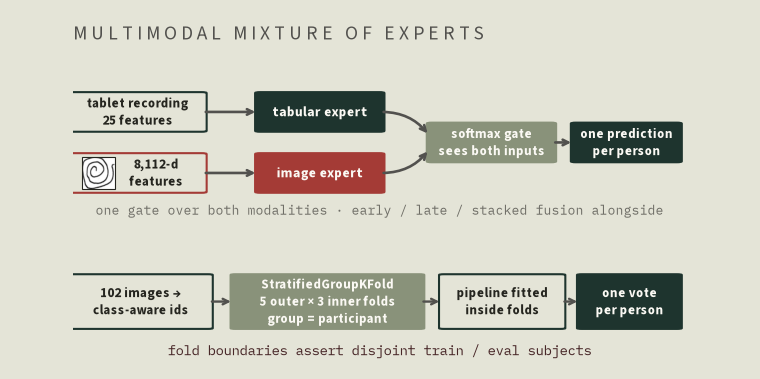
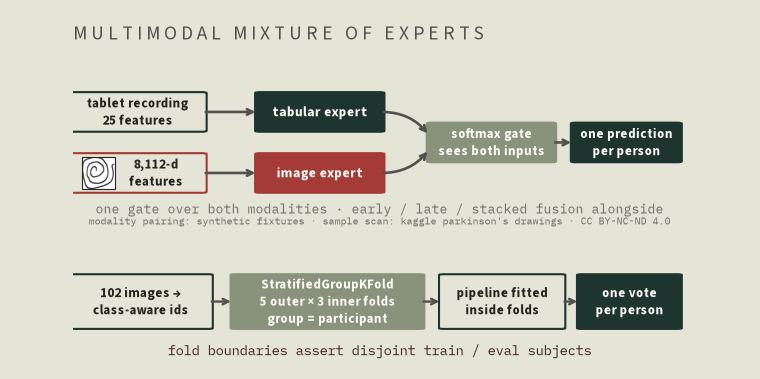
pd-drawings: audit fixes — receipts link, honest title, recruiter-clarity glosses
- title: "multimodal MoE" → "mixture-of-experts (two-modality version
  tested on simulated paired data only)"; the body's own scope statement
  disclaims real multimodal fusion
- link: committed result summaries (the receipts) in the repo
- preview asset regenerated with in-image attribution + synthetic-only
  note for the NC-ND sample scan; alt text updated to match
- every cited artifact path now points at results/summaries/*
- clarity pass: glosses for multimodal fusion, HC, z channel, CI, seeds,
  PCA/variance filter, ablation, pooled logreg; protocol paragraph
  split into readable sentences; chapter date labels replaced with
  descriptive labels (dates were non-monotonic)

Changed region(s): [[0.1211, 0.5224, 0.8776, 0.6095]]

diff --git a/projects.js b/projects.js
@@ -71,60 +71,61 @@ window.portfolioProjects = [
     result: "The learnable object the evidence supports is a small causal policy — trend strength, volatility, revision churn, lagged performance deciding naive vs theta — whose downside is bounded by naive (it can always defer to naive — inferred from the rule, not yet measured on a calm gate), and whose upside is the volatile phases, where theta halved naive's error on 2021 targets (7.9% vs 16.8%). The general lesson is the industry-relevant one: 'my model won' always deserves the follow-up question — won under what data conditions? The most valuable artifact in the project isn't any model; it's the vintage harness that would have caught the v1 result on day one."
   },
   {
-    id: "pd-drawings", title: "Classifying Parkinson's from drawings — subject-safe evaluation of a multimodal MoE", subtitle: "Rebuilding a drawing classifier around the unit that was quietly leaking: the participant.",
+    id: "pd-drawings", title: "Classifying Parkinson's from drawings — subject-safe evaluation of a mixture-of-experts (its two-modality version tested on simulated paired data only)", subtitle: "Rebuilding a drawing classifier around the unit that was quietly leaking: the participant.",
     roles: ["data", "ml"], roleLabels: ["DATA SCIENCE", "MACHINE LEARNING", "MLOPS"],
     links: [
       { label: "github repository", href: "https://github.com/oleeveeuh/parkinsons-drawing-analysis" },
       { label: "data audit (verified inventory)", href: "https://github.com/oleeveeuh/parkinsons-drawing-analysis/blob/main/docs/data_audit.md" },
+      { label: "committed result summaries (the receipts)", href: "https://github.com/oleeveeuh/parkinsons-drawing-analysis/tree/main/results/summaries" },
     ],
     previewImage: "assets/pd-drawings-method-schematic.png",
-    previewAlt: "schematic of the multimodal mixture of experts: tablet recordings feeding a tabular expert and an actual participant spiral drawing (contrast-adjusted scan) feeding an image expert, both combined by a softmax gate over the concatenated features into one prediction per participant, above a subject-safe protocol band running class-aware subject ids, participant-grouped stratified k-fold, fold-local pipeline fitting, and one vote per person",
+    previewAlt: "method schematic of a mixture-of-experts model: tablet recordings feed a tabular expert, a kaggle spiral scan feeds an image expert, and a learned gate combines them into one prediction per person, above a subject-safe protocol band (class-aware participant ids, participant-grouped splits, fold-local fitting, one vote per person). the two-modality layout is exercised on synthetic paired fixtures — the two real datasets here have different participants and cannot be fused. sample scan: kaggle parkinson's drawings (kmader), CC BY-NC-ND 4.0",
     technologyGroups: [
       { label: "DATA SCIENCE", skills: ["Python", "NumPy", "pandas", "SciPy", "Matplotlib", "UCI & Kaggle dataset audit", "subject-level bootstrap", "sign-flip permutation tests"] },
       { label: "MACHINE LEARNING", skills: ["scikit-learn", "StratifiedGroupKFold nested CV", "class-weighted logistic regression", "decision tree baseline", "XGBoost (wired, unrun)", "HOG + shape descriptors (scikit-image)", "frozen ResNet-18 features (torchvision, evaluated)", "early/late/stacked fusion (evaluated)", "softmax-gated MoE (evaluated)", "synthetic paired-modality fixtures"] },
-      { label: "MLOPS", skills: ["GitHub Actions CI", "pytest leakage guards", "hashed feature caches", "seed-fixed reproducibility", "JSON result artifacts"] },
+      { label: "MLOPS", skills: ["GitHub Actions CI", "pytest leakage guards", "hashed CNN-feature cache (optional path)", "seed-fixed reproducibility", "JSON artifacts + committed result summaries"] },
     ],
     year: "FIELD NOTE · 2026",
-    summary: "A rebuild of a Parkinson's drawing classifier whose evaluation had quietly leaked — 102 'samples' were 28 people, and every supplied test drawing belonged to a person in training. The fix is the finding: participant-grouped nested CV, a measured account of what the leak cost, and honest nulls for deep features, fusion, and mixture-of-experts.",
+    summary: "A rebuild of a Parkinson's drawing classifier whose evaluation had quietly leaked — 102 'samples' were 28 people, and every supplied test drawing belonged to a person in training. The fix is the finding: participant-grouped cross-validation (splits that never let one person's drawings span training and test), a measured account of what the leak cost, and honest nulls for deep features, fusion, and mixture-of-experts.",
     story: [
       { k: "the question · where this started", t: "can a classifier recognise parkinson's disease from the way a person draws?" },
       { p: "Two public datasets — Kaggle spiral/wave images and UCI tablet recordings — made the question look answerable, and my first pipeline answered it with confidence. The answer didn't survive contact with the filenames: the Kaggle set advertises 102 samples per task, but the filenames encode only 28 people per task, and every drawing in the supplied test set belongs to a person who is also in the supplied training set. Three correlated drawings of one person are not three independent patients — so before any model could be believed, the evaluation itself had to be rebuilt." },
-      { p: "The inventory, stated the way a data scientist would want it up front. The Kaggle set (CC BY-NC-ND 4.0) contributes 102 drawings per task — spiral and wave, 51/51 by dataset label, normalised to 128×128 grayscale — and the UCI set (CC BY 4.0, Isenkul, Sakar & Kursun 2014) contributes 40 tablet recordings, 25 PD / 15 HC, each file thousands of X/Y/Z/pressure/grip-angle/timestamp samples, with a 62.5% majority class anchoring any accuracy claim. Both are small by deep-learning standards, and their class balance is flattering at the image level in a way that stops holding once you count people instead of images. Two provenance facts matter before any modelling: the two sets contain different participants, so nothing here can be real multimodal fusion — and the UCI archive lists 77 recordings but ships 40, its original participant filenames destroyed by renaming, which makes one-recording-one-person a documented assumption rather than a verified fact (docs/data_audit.md, docs/data_sources.md)." },
+      { p: "The inventory, stated the way a data scientist would want it up front. The Kaggle set (CC BY-NC-ND 4.0) contributes 102 drawings per task — spiral and wave, 51/51 by dataset label, normalised to 128×128 grayscale — and the UCI set (CC BY 4.0, Isenkul, Sakar & Kursun 2014) contributes 40 tablet recordings, 25 PD / 15 HC (healthy controls), each file thousands of X/Y/Z/pressure/grip-angle/timestamp samples, with a 62.5% majority class (the score you get by always guessing the more common label) anchoring any accuracy claim. Both are small by deep-learning standards, and their class balance is flattering at the image level in a way that stops holding once you count people instead of images. Two provenance facts matter before any modelling: the two sets contain different participants, so nothing here can be real multimodal fusion (combining both data types into one model) — and the UCI record lists 77 recordings while the copy this project downloaded contains 40, its original participant filenames destroyed by renaming, which makes one-recording-one-person a documented assumption rather than a verified fact (docs/data_audit.md, docs/data_sources.md)." },
       { k: "chapter 00 · v1", t: "the pipeline I had to retire" },
-      { p: "v1 was the MoE-era codebase this repository was named after, and it reported its results with total confidence: spiral beats wave by 9.6 pp (72.4% vs 62.8%, p = 0.212) as a task-complexity finding, a 90.0% headline accuracy, and a z-range feature that seemed to separate patients from controls at 95.0% — all computed on '102 samples per task'. I quote those claims here because they are the audit targets: the committed README keeps them on record, marked as not comparable to anything measured since." },
+      { p: "v1 was the MoE-era codebase this repository was named after, and it reported its results with total confidence: spiral beats wave by 9.6 pp (percentage points; 72.4% vs 62.8%, p = 0.212 — already not statistically distinguishable from chance, which v1 didn't dwell on) as a task-complexity finding, a 90.0% headline accuracy, and a z-range feature (built from the tablet's third recorded axis, alongside pen position X and Y) that seemed to separate patients from controls at 95.0% — all computed on '102 samples per task'. I quote those claims here because they are the audit targets: the committed README keeps them on record, marked as not comparable to anything measured since." },
       { p: "None of those numbers survive the audit in the chapters below. The 102 samples are 28 people; the supplied split trains on every test participant; the spiral-wave gap and the 95% feature both collapse under grouped evaluation. The v1 code was removed before the rewrite — the repository name was the last fossil — and the rebuild started from the units, not the models. Every chapter after this one is the same question asked one layer deeper: what does this data actually contain, and what can it honestly support?" },
-      { k: "chapter 01 · 2026-10-05", t: "counting people, not images" },
-      { p: "V01PE02.png looks like a sample; parsed, it is a person. The Kaggle filenames encode participant (V01), class group (PE/PO Parkinson's, HE/HO healthy) and drawing number — and the numeric codes are namespaced by class, so parkinson:V01 and healthy:V01 are different people. Counting unique class-aware ids turns 102 images per task into 28 participants (15 PD / 13 HC), the same 28 people in both tasks; 26 of them drew 3 drawings each, one drew 9, one drew 15 (results/data_audit.json, docs/data_audit.md)." },
+      { k: "chapter 01 · the inventory", t: "counting people, not images" },
+      { p: "V01PE02.png looks like a sample; parsed, it is a person. The Kaggle filenames encode participant (V01), class group (PE/PO Parkinson's, HE/HO healthy) and drawing number — and the numeric codes are namespaced by class, so parkinson:V01 and healthy:V01 are different people. Counting unique class-aware ids turns 102 images per task into 28 participants (15 PD / 13 HC), the same 28 people in both tasks; 26 of them drew 3 drawings each, one drew 9, one drew 15 (results/summaries/data_audit.json, docs/data_audit.md)." },
       { p: "The supplied train/test directories fail the same audit harder: all 25 spiral test participants — 24 of 24 for wave — also appear in the training directories, 100% exposure. A model that memorises one person's stroke style scores well on that person's other drawings, which is exactly what this split rewards. The UCI temporal set has a quieter version of the problem: its local train/test split has no verifiable provenance, and the original participant ids were destroyed by renaming — documented, not resolved (docs/data_audit.md). Neither supplied split is used for anything but an audit target." },
-      { img: "assets/pd-drawings-audit-units.png", caption: "what the datasets advertise vs what they contain: 102 images per kaggle task are 28 participants (15 PD / 13 HC) — a 3.6× unit inflation; the uci temporal set is 40 recordings from 40 people. 26 of 28 participants contribute 3 drawings per task, one contributes 9 and one 15 — two people carry 24 of 102 images (wine bars). the supplied train/test split additionally exposes every test participant to training: spiral 25/25, wave 24/24. source: results/data_audit.json, docs/data_audit.md.", alt: "paired bar chart of advertised samples versus actual participants for the three dataset arms, and a bar chart of drawings per participant showing 26 participants at three drawings and two outliers at nine and fifteen" },
+      { img: "assets/pd-drawings-audit-units.png", caption: "what the datasets advertise vs what they contain: 102 images per kaggle task are 28 participants (15 PD / 13 HC) — a 3.6× unit inflation; the uci temporal set is 40 recordings from 40 people. 26 of 28 participants contribute 3 drawings per task, one contributes 9 and one 15 — two people carry 24 of 102 images (wine bars). the supplied train/test split additionally exposes every test participant to training: spiral 25/25, wave 24/24. source: results/summaries/data_audit.json, docs/data_audit.md.", alt: "paired bar chart of advertised samples versus actual participants for the three dataset arms, and a bar chart of drawings per participant showing 26 participants at three drawings and two outliers at nine and fifteen" },
       { k: "chapter 02 · the rebuild", t: "one vote per person" },
-      { p: "The corrected protocol is one rule applied everywhere: the participant is the unit. Every evaluation uses StratifiedGroupKFold — 5 outer folds, 3 inner folds for hyperparameters, group = participant — with an assertion at every fold boundary that train and evaluation subjects are disjoint; the offline test suite fails if a single person crosses. All fitted preprocessing (variance filter, scaling, PCA at 95%) lives inside the sklearn pipeline, so no validation fold can leak into it, and each participant's drawings are aggregated into one vote (mean out-of-fold probability, threshold 0.5) before any metric exists." },
-      { p: "Under that protocol the honest numbers are: temporal (UCI, 40 participants) 0.925 accuracy, 95% CI [0.825, 1.000], AUC 0.947, against a 0.625 majority baseline; spiral and wave (28 participants each, identical folds so the comparison is paired) both 0.821 [0.679, 0.964], AUC 0.867 and 0.826, against 0.464 (results/real/temporal_real.json, results/real/spatial_real_hog_shape.json). A shallow decision tree fills the middle of the range in every run — 0.725 [0.575, 0.850] temporal, 0.571 spiral, 0.607 wave — so the single-model family is majority dummy, tree, class-weighted logistic regression. XGBoost is wired as an optional comparison extra in the repo but has no run in the frozen artifacts, so it stays unreported rather than half-measured. Uncertainty comes from a deterministic subject-level bootstrap — 2,000 resamples, participants resampled within class — because at n = 28–40 the point estimates are unstable and the intervals are the result." },
-      { img: "assets/pd-drawings-results-ci.png", caption: "the single-model family under subject-grouped nested CV (5 outer × 3 inner folds), participant-level out-of-fold accuracy, 95% subject-bootstrap CIs from 2,000 resamples. temporal (uci, n = 40): logistic regression 0.925 [0.825–1.000] (AUC 0.947), decision tree 0.725 [0.575–0.850], majority baseline 0.625. spiral and wave (kaggle, n = 28 each, identical participant folds): logistic regression 0.821 [0.679–0.964] both (AUC 0.867 / 0.826), decision tree 0.571 / 0.607, baseline 0.464. xgboost is wired as an optional extra but has no run in the frozen artifacts, so it is not drawn. the spiral−wave gap on identical folds is exactly 0.000 (paired sign-flip, p = 1.0). sources: results/real/temporal_real.json, results/real/spatial_real_hog_shape.json. higher is better.", alt: "grouped bar chart of participant-level accuracy with confidence-interval whiskers for the majority baseline, decision tree, and logistic regression across the temporal, spiral, and wave evaluations" },
-      { k: "chapter 03 · 2026-10-12", t: "what the leak actually cost" },
-      { p: "The obvious next question: how much did the leak inflate the number? Measured apples-to-apples — same model, same features, same participant-level aggregation, only the split differs, 30 repeated partitions (results/impact_numbers.json) — the leaky image-level split scores 0.860 ± 0.033 and the participant-grouped split 0.833 ± 0.028. The +2.6 pp mean looks like a small lie, and it is: leaky wins only 16 of 30 seeds, and the per-seed delta swings from −7.1 to +14.3 pp. At n = 28 the accuracy delta is noise." },
-      { p: "The reliable damage was elsewhere. The leak inflated the sample size 3.6× — 102 'patients' were 28 people — and it manufactured a finding: the v1 task-complexity result, spiral beats wave by 9.6 pp (p = 0.212), measures exactly 0.000 under participant-grouped paired evaluation (p = 1.0; 28 pairs, 10,000 sign-flip permutations, results/real/spatial_real_hog_shape.json). Same people, same drawings, no evidence one task is more diagnostic than the other. That is the pattern I now expect from leaky evaluation: the headline survives, the meaning doesn't." },
-      { img: "assets/pd-drawings-split-impact.png", caption: "what the leak actually cost, measured apples-to-apples over 30 repeated partitions (results/impact_numbers.json): same model, same participant-level aggregation, only the split differs. leaky image-level split 0.860 ± 0.033 vs participant-grouped 0.833 ± 0.028 — the +2.6 pp mean is seed-unstable (leaky wins 16/30; per-seed delta −7.1 to +14.3 pp). the reliable damage: 102 advertised images were 28 people (3.6× inflation) and 97–100% of test images had their subject in training. panel two: the leaky era's task-complexity finding — spiral beats wave by 9.6 pp (p = 0.212) — measures exactly 0.000 pp (p = 1.0) under grouped paired evaluation. sources: results/impact_numbers.json, results/real/spatial_real_hog_shape.json.", alt: "two-panel figure: bars comparing leaky and participant-grouped split accuracy with standard-deviation whiskers, and a lollipop chart contrasting the v1 spiral-wave gap claim of 9.6 points with the measured 0.0" },
+      { p: "The corrected protocol is one rule applied everywhere: the participant is the unit. Every evaluation uses StratifiedGroupKFold — a scikit-learn splitter that keeps each person's drawings on one side of a split (group = participant), arranged as 5 outer folds for scoring. Inside each outer training set, 3 further folds pick the hyperparameters (the settings a model tunes about itself), so no tuning choice ever touches the rows the final score is computed on. An assertion at every fold boundary checks that the two sides share no one; the offline test suite fails if a single person crosses. All fitted preprocessing (a variance filter that drops uninformative columns, feature scaling, PCA at 95% — a compression that keeps 95% of the information) is fit on the training side only, so no evaluation row can influence it. And each participant's drawings are collapsed into one vote — every drawing scored by a model that never trained on it ('out of fold'), averaged, then thresholded at 0.5 — before any metric exists." },
+      { p: "Under that protocol the honest numbers are: temporal (UCI, 40 participants) 0.925 accuracy, 95% CI (confidence interval) [0.825, 1.000], AUC 0.947 (how well the scores rank patients above controls, independent of any cutoff), against a 0.625 majority baseline; spiral and wave (28 participants each, identical folds so the comparison is paired) both 0.821 [0.679, 0.964], AUC 0.867 and 0.826, against 0.464 (results/summaries/real/temporal_real.json, results/summaries/real/spatial_real_hog_shape.json). A shallow decision tree fills the middle of the range in every run — 0.725 [0.575, 0.850] temporal, 0.571 spiral, 0.607 wave — so the single-model family is majority dummy, tree, class-weighted logistic regression. XGBoost is wired as an optional comparison extra in the repo but has no run in the frozen artifacts, so it stays unreported rather than half-measured. Uncertainty comes from a subject-level bootstrap — resampling the participants (never their drawings) 2,000 times to see how much each number would wobble — because at n = 28–40 the headline numbers themselves wobble from split to split, and the intervals are the result." },
+      { img: "assets/pd-drawings-results-ci.png", caption: "the single-model family under subject-grouped nested CV (5 outer × 3 inner folds), participant-level out-of-fold accuracy, 95% subject-bootstrap CIs from 2,000 resamples. temporal (uci, n = 40): logistic regression 0.925 [0.825–1.000] (AUC 0.947), decision tree 0.725 [0.575–0.850], majority baseline 0.625. spiral and wave (kaggle, n = 28 each, identical participant folds): logistic regression 0.821 [0.679–0.964] both (AUC 0.867 / 0.826), decision tree 0.571 / 0.607, baseline 0.464. xgboost is wired as an optional extra but has no run in the frozen artifacts, so it is not drawn. the spiral−wave gap on identical folds is exactly 0.000 (paired sign-flip, p = 1.0). sources: results/summaries/real/temporal_real.json, results/summaries/real/spatial_real_hog_shape.json. higher is better.", alt: "grouped bar chart of participant-level accuracy with confidence-interval whiskers for the majority baseline, decision tree, and logistic regression across the temporal, spiral, and wave evaluations" },
+      { k: "chapter 03 · the measurement", t: "what the leak actually cost" },
+      { p: "The obvious next question: how much did the leak inflate the number? Measured apples-to-apples — same model, same features, same participant-level aggregation, only the split differs, across 30 re-runs each with a different random shuffle (a 'seed'; results/summaries/impact_numbers.json) — the leaky image-level split scores 0.860 ± 0.033 and the participant-grouped split 0.833 ± 0.028. The +2.6 pp mean looks like a small lie, and it is: leaky wins only 16 of the 30 seeds, and the per-seed delta swings from −7.1 to +14.3 pp. At n = 28 the accuracy delta is noise." },
+      { p: "The reliable damage was elsewhere. The leak inflated the sample size 3.6× — 102 'patients' were 28 people — and it manufactured a finding: the v1 task-complexity result, spiral beats wave by 9.6 pp (p = 0.212), measures exactly 0.000 under participant-grouped paired evaluation (p = 1.0; 28 pairs, 10,000 sign-flip permutations — a chance yardstick that repeatedly flips each person's spiral-vs-wave difference at random to see how often luck alone makes the observed gap; results/summaries/real/spatial_real_hog_shape.json). Same people, same drawings, no evidence one task is more diagnostic than the other. That is the pattern I now expect from leaky evaluation: the headline survives, the meaning doesn't." },
+      { img: "assets/pd-drawings-split-impact.png", caption: "what the leak actually cost, measured apples-to-apples over 30 repeated partitions (results/summaries/impact_numbers.json): same model, same participant-level aggregation, only the split differs. leaky image-level split 0.860 ± 0.033 vs participant-grouped 0.833 ± 0.028 — the +2.6 pp mean is seed-unstable (leaky wins 16/30; per-seed delta −7.1 to +14.3 pp). the reliable damage: 102 advertised images were 28 people (3.6× inflation) and 97–100% of test images had their subject in training. panel two: the leaky era's task-complexity finding — spiral beats wave by 9.6 pp (p = 0.212) — measures exactly 0.000 pp (p = 1.0) under grouped paired evaluation. sources: results/summaries/impact_numbers.json, results/summaries/real/spatial_real_hog_shape.json.", alt: "two-panel figure: bars comparing leaky and participant-grouped split accuracy with standard-deviation whiskers, and a lollipop chart contrasting the v1 spiral-wave gap claim of 9.6 points with the measured 0.0" },
       { k: "chapter 04 · stated honestly", t: "the feature that lied" },
       { p: "The temporal dataset had its own ghost. The previous README reported removing z-channel features after z_range alone separated the classes at 95.0%, framed as domain-informed artifact removal — which is a generous description of removing a feature after seeing evaluation results. The honest framing is exploratory post-hoc selection, and the current repo says exactly that, in a section titled 'the z-channel investigation, stated honestly' (docs/data_audit.md)." },
-      { p: "Under the corrected protocol the ghost dissolves. Participant-grouped CV on z_range alone scores 0.800 accuracy / 0.925 AUC — not 95% — and adding all z features to the full model moves its AUC from 0.947 to 0.957, a shift of +0.01 (results/impact_numbers.json, results/real/temporal_real_with_z.json). The apparent separation was a recording artifact — z values from different tablet configurations are not comparable — amplified by an in-sample threshold. The features stay excluded by default, the exclusion is re-runnable with --include-z, and both runs are reported." },
-      { k: "chapter 05 · 2026-10-14", t: "frozen deep features, measured" },
-      { p: "The old README also claimed handcrafted features beat deep ones — unmeasured. I replaced the claim with a measurement: the optional --cnn path prepends 512-d frozen ImageNet ResNet-18 embeddings (torchvision weights API, eval mode, hashed cache keys so nothing is fitted) to the HOG+shape features and re-runs the identical protocol (results/real/spatial_real_cnn_hog_shape.json)." },
+      { p: "Under the corrected protocol the ghost dissolves. Participant-grouped CV on z_range alone scores 0.800 accuracy / 0.925 AUC — not 95% — and adding all z features to the full model moves its AUC from 0.947 to 0.957, a shift of +0.01 (results/summaries/impact_numbers.json, results/summaries/real/temporal_real_with_z.json). The apparent separation was a recording artifact — z values from different tablet configurations are not comparable — amplified by an in-sample threshold (one chosen on the same data it scores — the classic way to flatter a number). The features stay excluded by default, the exclusion is re-runnable with --include-z, and both runs are reported." },
+      { k: "chapter 05 · the deep-feature check", t: "frozen deep features, measured" },
+      { p: "The old README also claimed handcrafted features beat deep ones — unmeasured. I replaced the claim with a measurement: the optional --cnn path prepends features from a standard image network — ResNet-18, pretrained on ImageNet, used frozen (no training happens; it only computes off-the-shelf feature summaries, cache keys hashed from image content so nothing is ever fitted) — to the handcrafted HOG+shape features (HOG = histogram-of-gradients, a standard edge-direction summary of the stroke pattern; shape = 12 geometric measures of the drawing) and re-runs the identical protocol (results/summaries/real/spatial_real_cnn_hog_shape.json)." },
       { p: "The measured answer is a null. Spiral moves 0.821 → 0.857 [0.714, 0.964] — one correctly classified participant; wave moves 0.821 → 0.750 [0.571, 0.893] — two lost. The intervals overlap almost completely, and the paired spiral-wave difference flips sign at p = 0.45. At n = 28 there is no evidence frozen deep features help or hurt. It is also not a trained deep model: fine-tuning on 28 participants was never attempted, and the README's limitations section says so." },
-      { img: "assets/pd-drawings-deep-features.png", caption: "frozen deep features, measured (results/real/spatial_real_cnn_hog_shape.json vs results/real/spatial_real_hog_shape.json): prepending 512-d frozen imagenet resnet-18 embeddings to hog+shape under the identical protocol moves spiral 0.821 → 0.857 (+1 participant) and wave 0.821 → 0.750 (−2 participants); the 95% CIs overlap almost completely and the paired spiral−wave difference flips sign (p = 0.45). at n = 28 there is no evidence frozen deep features help or hurt — and this is a frozen feature extractor, not a trained deep model. higher is better.", alt: "grouped bar chart comparing hog+shape versus cnn+hog+shape participant accuracy with confidence whiskers for spiral and wave, auc annotated above each bar" },
-      { k: "chapter 06 · 2026-10-07", t: "fusion, honest where it can be" },
-      { p: "The two real datasets cannot be fused — different participants — and the README states that plainly. What the fusion module (src/pd_drawing_analysis/fusion.py) can do is prove its mechanics on synthetic paired modalities: the same 12 synthetic participants produce both a recording and a drawing, with the class signal deliberately split — half the impaired participants separable only in recordings, half only in drawings. There, late fusion does what theory promises: 0.917 [0.750, 1.000], AUC 0.972, against 0.667 recordings-only and 0.750 drawings-only (results/fusion/fusion_paired_synthetic.json)." },
-      { p: "The same run documents the failure modes without flinching: early fusion dilutes to 0.750 under the 8,112-dimension HOG+shape block, and stacked meta-learning collapses to 0.417 at n = 12. The real-data ablation — HOG vs shape feature families of the same drawings — runs the honest version: HOG alone 0.821, shape alone 0.643, fused 0.750–0.821. Fusion never beat the stronger single family (results/fusion/fusion_feature_ablation_real.json). An honest negative, reported as one." },
-      { img: "assets/pd-drawings-fusion.png", caption: "fusion, exercised where it can be honest (results/fusion/). left — synthetic paired modalities, n = 12, class signal split across modalities: late fusion 0.917 [0.750–1.000], AUC 0.972, beats recordings-only 0.667 and drawings-only 0.750; early fusion dilutes to 0.750 under the 8,112-dimension hog+shape; stacked meta-learning collapses to 0.417 at this n. right — real feature-family ablation on the same drawings (n = 28): hog alone 0.821, shape alone 0.643, fused 0.750–0.821 — fusion never beat the stronger single family. an honest negative. higher is better.", alt: "two bar panels: fusion strategies on synthetic paired modalities with late fusion highest, and the real hog-versus-shape ablation where fusion does not beat hog alone" },
+      { img: "assets/pd-drawings-deep-features.png", caption: "frozen deep features, measured (results/summaries/real/spatial_real_cnn_hog_shape.json vs results/summaries/real/spatial_real_hog_shape.json): prepending 512-d frozen imagenet resnet-18 embeddings to hog+shape under the identical protocol moves spiral 0.821 → 0.857 (+1 participant) and wave 0.821 → 0.750 (−2 participants); the 95% CIs overlap almost completely and the paired spiral−wave difference flips sign (p = 0.45). at n = 28 there is no evidence frozen deep features help or hurt — and this is a frozen feature extractor, not a trained deep model. higher is better.", alt: "grouped bar chart comparing hog+shape versus cnn+hog+shape participant accuracy with confidence whiskers for spiral and wave, auc annotated above each bar" },
+      { k: "chapter 06 · the fusion module", t: "fusion, honest where it can be" },
+      { p: "The two real datasets cannot be fused — different participants — and the README states that plainly. What the fusion module (src/pd_drawing_analysis/fusion.py) can do is prove its mechanics on synthetic paired modalities: the same 12 synthetic participants produce both a recording and a drawing, with the class signal deliberately split — half the impaired participants separable only in recordings, half only in drawings. There, late fusion — one classifier per modality, their opinions averaged with a mixing weight chosen on inner folds — does what theory promises: 0.917 [0.750, 1.000], AUC 0.972, against 0.667 recordings-only and 0.750 drawings-only (results/summaries/fusion/fusion_paired_synthetic.json)." },
+      { p: "The same run documents the failure modes without flinching: early fusion — concatenating everything into one model — dilutes to 0.750 under the 8,112-dimension HOG+shape block, and stacked meta-learning — a small second-stage model learning from each modality's predictions — collapses to 0.417 at n = 12. The real-data ablation — retraining with one component removed to measure what it contributed, here HOG-only vs shape-only models of the same drawings — runs the honest version: HOG alone 0.821, shape alone 0.643, fused 0.750–0.821. Fusion never beat the stronger single family (results/summaries/fusion/fusion_feature_ablation_real.json). An honest negative, reported as one." },
+      { img: "assets/pd-drawings-fusion.png", caption: "fusion, exercised where it can be honest (results/summaries/fusion/). left — synthetic paired modalities, n = 12, class signal split across modalities: late fusion 0.917 [0.750–1.000], AUC 0.972, beats recordings-only 0.667 and drawings-only 0.750; early fusion dilutes to 0.750 under the 8,112-dimension hog+shape; stacked meta-learning collapses to 0.417 at this n. right — real feature-family ablation on the same drawings (n = 28): hog alone 0.821, shape alone 0.643, fused 0.750–0.821 — fusion never beat the stronger single family. an honest negative. higher is better.", alt: "two bar panels: fusion strategies on synthetic paired modalities with late fusion highest, and the real hog-versus-shape ablation where fusion does not beat hog alone" },
       { k: "chapter 07 · moe", t: "parity, measured" },
-      { p: "The repository's name promised a mixture-of-experts result; the corrected protocol measured one. A classical softmax-gated MoE — EM training, k-means gate initialisation because uniform init empirically collapses onto one expert, per-expert feature slices — runs under the same nested CV (src/pd_drawing_analysis/moe.py). On the real Kaggle participants, per-task experts (spiral and wave features for the same 28 people) score 0.786 — identical to pooled logistic regression and to the spiral expert alone — with the gate sitting near-uniform at 0.571/0.429 (results/moe/moe_task_experts_real.json). The mixture adds nothing." },
-      { p: "The synthetic fixtures show the implementation is not broken and the conclusion is real. On two-regime data the gate recovers the latent regimes with purity 1.00 (n = 24) and 0.987 (n = 600), yet the MoE still loses to the best single model — 0.708 vs 0.750 at n = 24, 0.700 vs 0.850 at 1,200 rows — while beating its deliberately weak expert (0.633) only once data is abundant (results/moe/moe_synthetic.json, results/moe/moe_validate_large.json). Even modality-sliced experts — a tabular expert and an image expert for the same synthetic participants — score 0.750 where late fusion scores 0.917 on the identical fixtures (results/moe/moe_modality_experts_synthetic.json). A classical MoE is data-hungry; at these sample sizes it does not beat a single regularised model, and no gain is claimed." },
-      { img: "assets/pd-drawings-moe.png", caption: "mixture of experts under the same subject-grouped protocol (results/moe/). left — real per-task experts on the same 28 participants: the moe scores 0.786 [0.607–0.929], identical to pooled logistic regression and the spiral expert alone; the gate sits near-uniform (0.571/0.429). right — synthetic two-regime fixtures: the gate recovers the latent regimes (purity 1.00 at n = 24, 0.987 at n = 600) yet the moe never beats the best single model (0.708 vs 0.750; 0.700 vs 0.850 at 1,200 rows) — it only beats its deliberately weak expert, 0.633. modality-sliced experts score 0.750 where late fusion scores 0.917 on the identical fixtures. data-hungry architecture; no gain claimed. higher is better.", alt: "two panels: participant accuracy of wave expert, pooled logistic regression, mixture of experts, and spiral expert on real data, and the moe versus best single model on two synthetic fixture sizes" },
+      { p: "The repository's name promised a mixture-of-experts result; the corrected protocol measured one. A classical mixture of experts (MoE) — a small learned gate that routes each case between specialised sub-models ('experts'), trained by expectation-maximisation, with k-means seeding the gate because a uniform starting gate empirically collapses onto one expert — runs under the same nested CV (src/pd_drawing_analysis/moe.py). On the real Kaggle participants, per-task experts (spiral and wave features for the same 28 people) score 0.786 — identical to pooled logistic regression (one plain model trained on both tasks' drawings at once) and to the spiral expert alone — with the gate sitting near-uniform at 0.571/0.429 (results/summaries/moe/moe_task_experts_real.json). The mixture adds nothing." },
+      { p: "The synthetic fixtures show the implementation is not broken and the conclusion is real. On two-regime data the gate recovers the latent regimes with purity 1.00 (n = 24) and 0.987 (n = 600) — purity: how often the gate sends each case to the expert matching its true regime — yet the MoE still loses to the best single model — 0.708 vs 0.750 at n = 24, 0.700 vs 0.850 at 1,200 rows — while beating its deliberately weak expert (0.633) only once data is abundant (results/summaries/moe/moe_synthetic.json, results/summaries/moe/moe_validate_large.json). Even modality-sliced experts — a tabular expert and an image expert for the same synthetic participants — score 0.750 where late fusion scores 0.917 on the identical fixtures (results/summaries/moe/moe_modality_experts_synthetic.json). A classical MoE is data-hungry; at these sample sizes it does not beat a single regularised model, and no gain is claimed." },
+      { img: "assets/pd-drawings-moe.png", caption: "mixture of experts under the same subject-grouped protocol (results/summaries/moe/). left — real per-task experts on the same 28 participants: the moe scores 0.786 [0.607–0.929], identical to pooled logistic regression and the spiral expert alone; the gate sits near-uniform (0.571/0.429). right — synthetic two-regime fixtures: the gate recovers the latent regimes (purity 1.00 at n = 24, 0.987 at n = 600) yet the moe never beats the best single model (0.708 vs 0.750; 0.700 vs 0.850 at 1,200 rows) — it only beats its deliberately weak expert, 0.633. modality-sliced experts score 0.750 where late fusion scores 0.917 on the identical fixtures. data-hungry architecture; no gain claimed. higher is better.", alt: "two panels: participant accuracy of wave expert, pooled logistic regression, mixture of experts, and spiral expert on real data, and the moe versus best single model on two synthetic fixture sizes" },
       { k: "chapter 08 · open path", t: "what would move the nulls" },
       { p: "Two inputs would move these results. Paired multimodal data — the same participants producing tablet recordings and drawings — is the one thing that turns the fusion module from synthetic demonstration into real analysis, and no public dataset provides it. External validation on an independent drawing cohort, with subject disjointness across datasets, is the other open door: nothing here has seen a participant outside these two datasets, and 'PD' and 'healthy' are dataset labels, not verified clinical statuses. The README's limitations section keeps both facts up front: confounders unmeasurable, labels unverified, nothing here evidence of clinical utility." },
-      { p: "The repo is built to be checked rather than believed: every run writes a JSON artifact with the environment, the fold-to-subject assignment and out-of-fold predictions by original index; the offline pytest suite (65 tests) fails on any subject crossing a fold boundary or any fitted statistic seeing a non-training row; CI runs the suite on Python 3.11 and 3.12 (README, reproducibility notes). The negative results are load-bearing here — the audit, the split-impact measurement, and the nulls are the contribution. The models were never the story." },
+      { p: "The repo is built to be checked rather than believed: every number quoted in this entry is copied from a committed numbers-only summary in the repository (results/summaries/ — metrics, confidence intervals and protocol, with the row-level predictions kept local); the offline pytest suite (65 tests) fails on any subject crossing a fold boundary or any fitted statistic seeing a non-training row; CI runs the suite on Python 3.11 and 3.12 (README, reproducibility notes). The negative results are load-bearing here — the audit, the split-impact measurement, and the nulls are the contribution. The models were never the story." },
     ],
-    result: "The takeaway: in small clinical datasets, the evaluation design is the result. Fixing the unit — 102 images that were 28 people — changed the advertised sample size by 3.6×, erased the repo's own 9.6 pp task-complexity claim to exactly 0.000, and turned a 95% feature into a documented artifact, while every architecture upgrade on top (frozen deep features, fusion, mixture of experts) measured as a null at this scale. The honest contribution is not a model; it is a protocol with its receipts — participant-grouped nested CV, hard subject-disjointness assertions, bootstrap uncertainty, and every number traceable to a regenerable artifact.",
+    result: "The takeaway: in small clinical datasets, the evaluation design is the result. Fixing the unit — 102 images that were 28 people — changed the advertised sample size by 3.6×, erased the repo's own 9.6 pp task-complexity claim to exactly 0.000, and turned a 95% feature into a documented artifact, while every architecture upgrade on top (frozen deep features, fusion, mixture of experts) measured as a null at this scale. The honest contribution is not a model; it is a protocol with its receipts — participant-grouped nested CV, hard subject-disjointness assertions, bootstrap uncertainty, and every number committed as a checkable summary and regenerable from code.",
   },
   {
     id: "tod-prediction", title: "Predicting time of death — from REU code to BIOSTEC 2026", subtitle: "146 donors, 235 circadian genes, and the window-to-autoencoder idea that carried it into print.",
